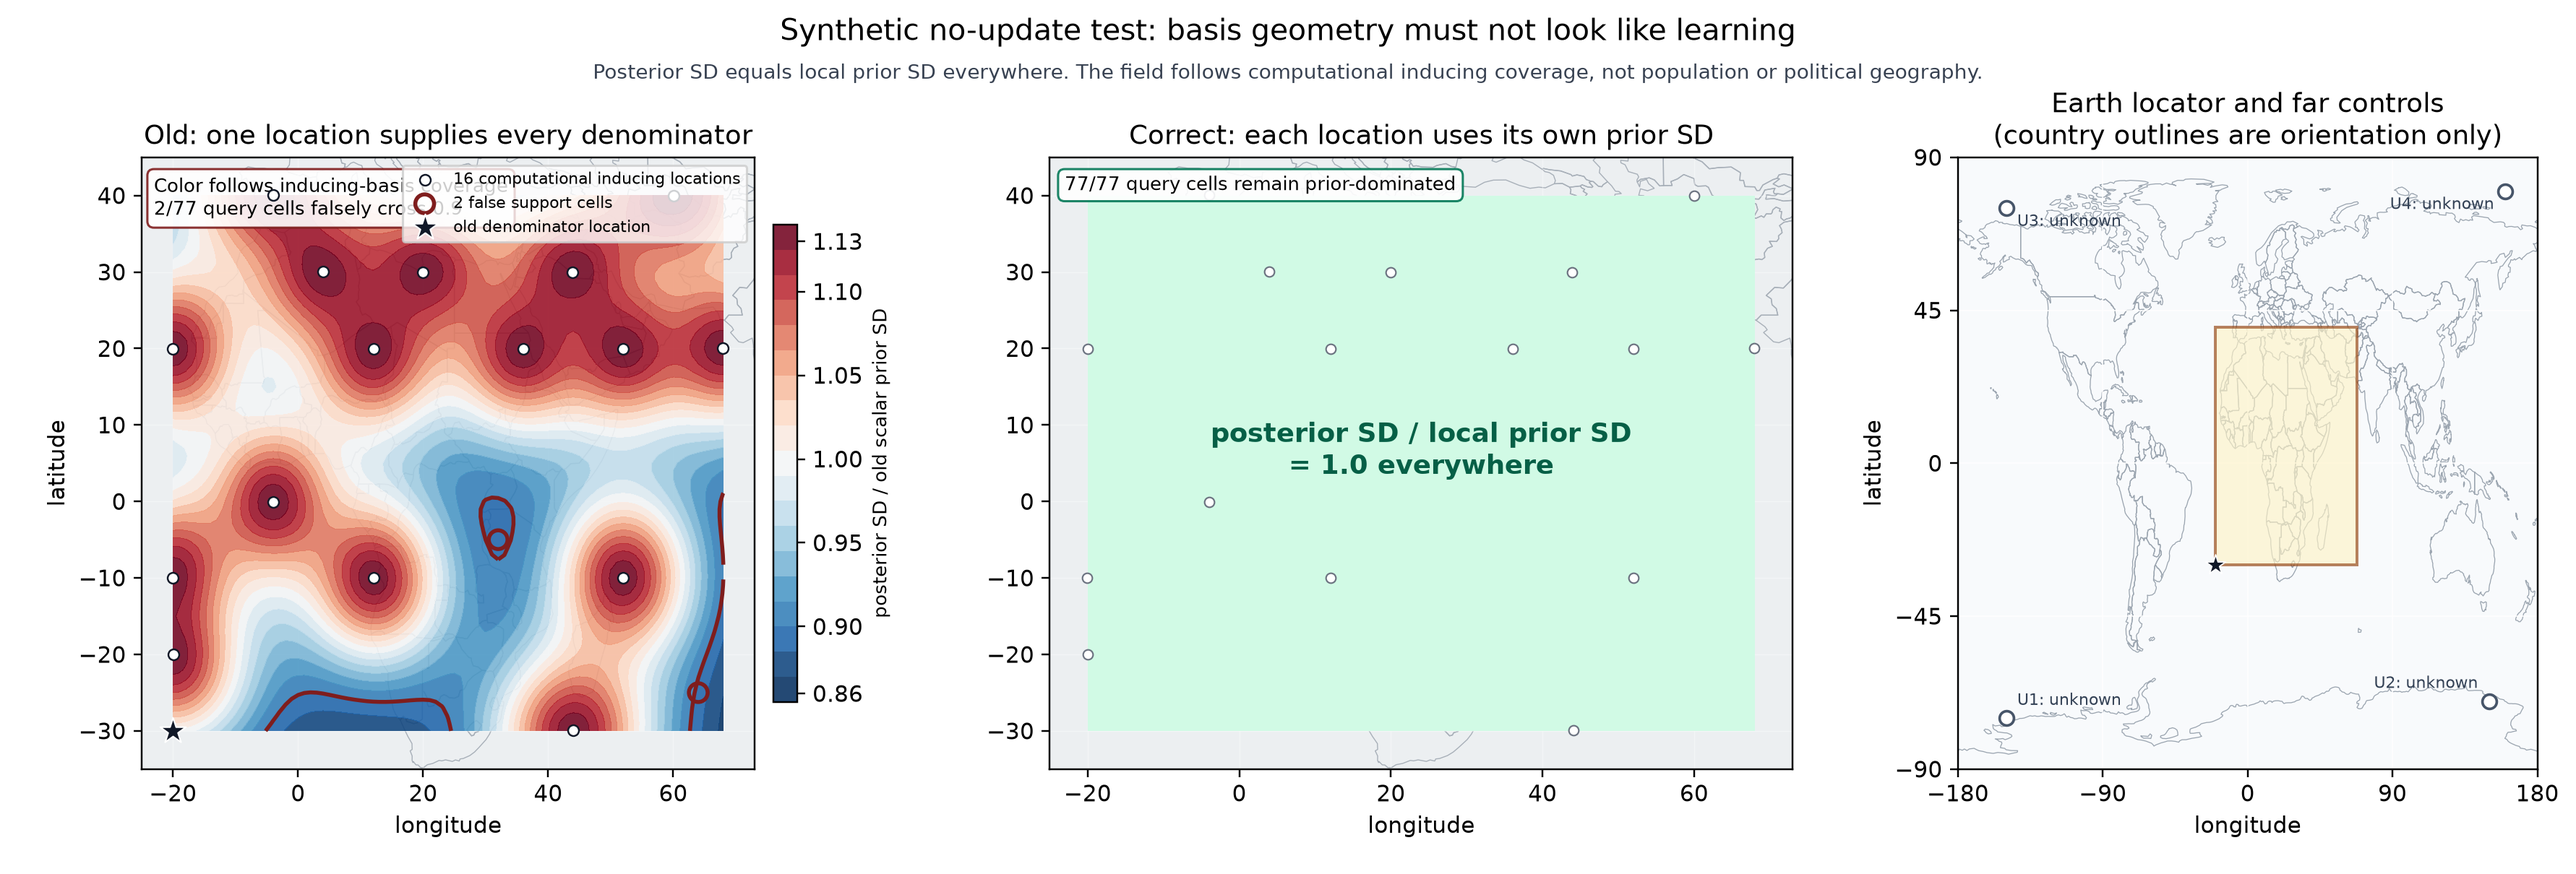
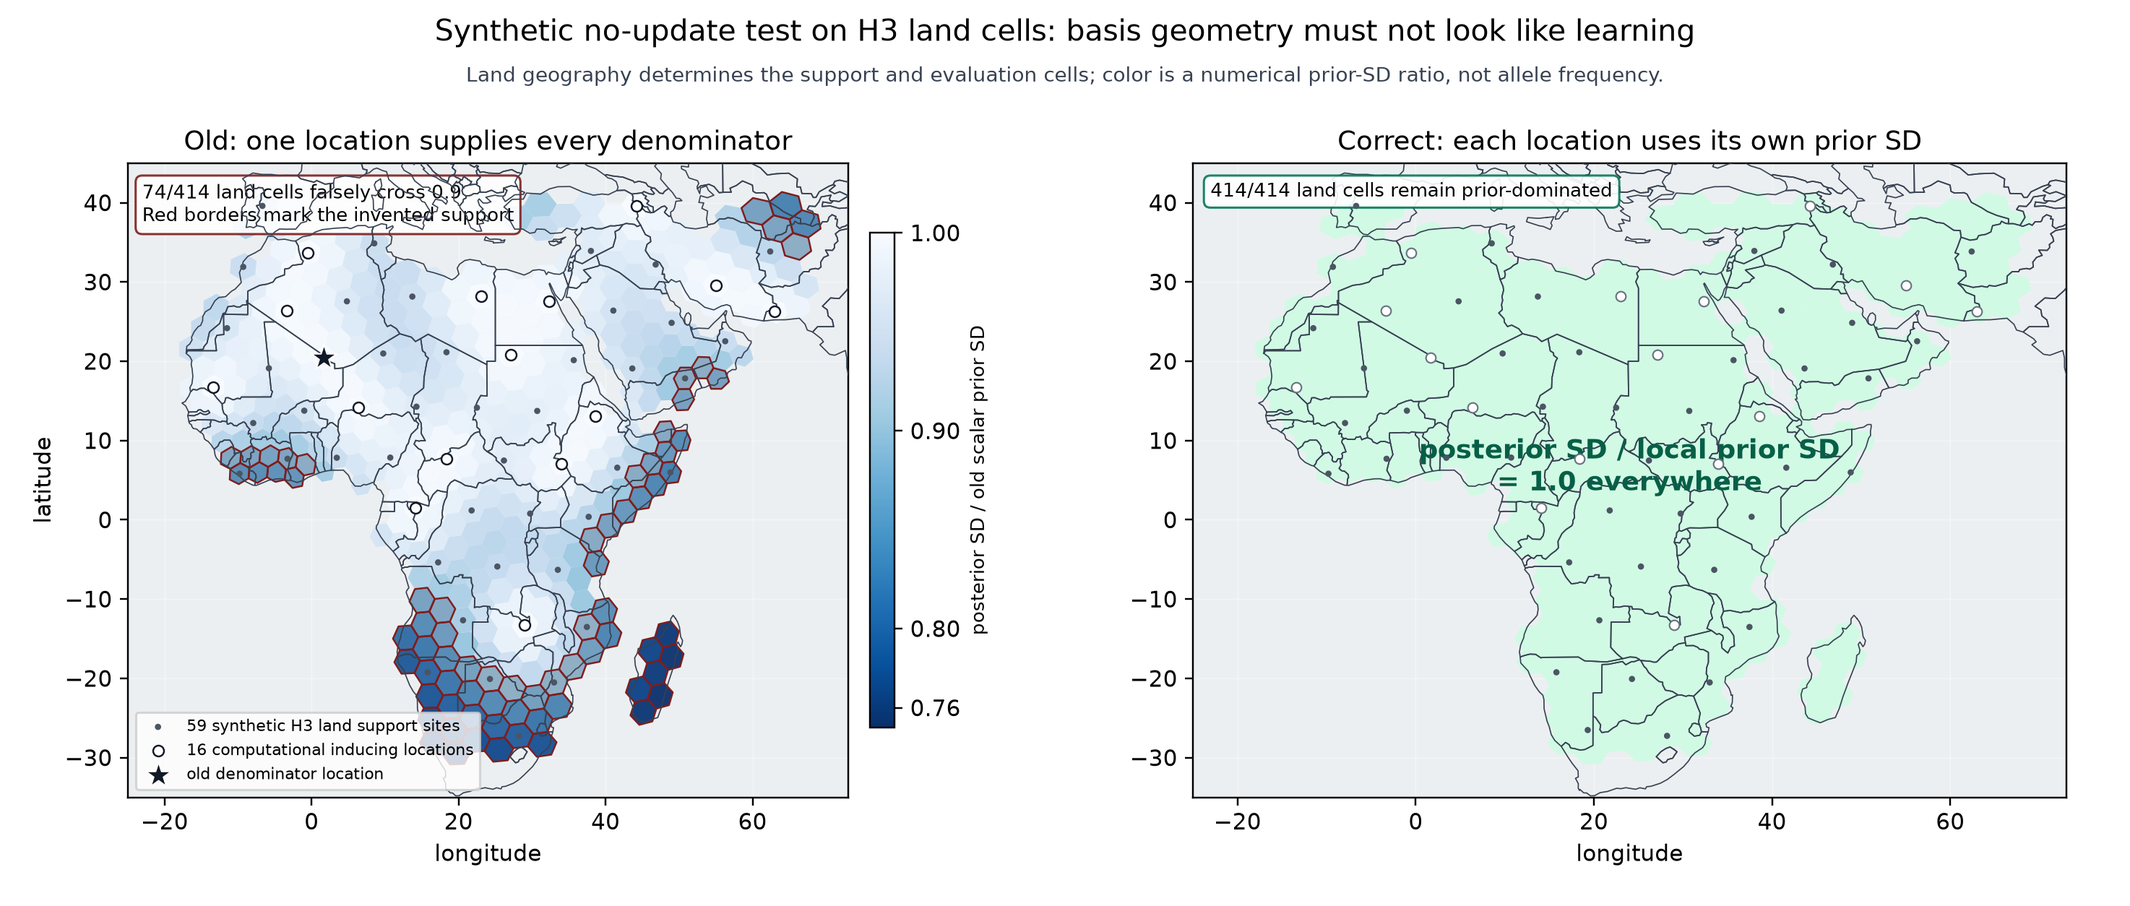
fix: tie prior diagnostic to land geometry (closes #266)

diff --git a/scripts/plot_prior_normalization.py b/scripts/plot_prior_normalization.py
@@ -15,8 +15,8 @@ import matplotlib
 matplotlib.use("Agg")
 import matplotlib.pyplot as plt  # noqa: E402
 import numpy as np  # noqa: E402
-from matplotlib.colors import ListedColormap, TwoSlopeNorm  # noqa: E402
-from matplotlib.patches import Rectangle  # noqa: E402
+from matplotlib.collections import PolyCollection  # noqa: E402
+from matplotlib.colors import Normalize  # noqa: E402
 
 from genomeos.surfaces.fit import (  # noqa: E402
     EARTH_RADIUS_KM,
@@ -24,11 +24,16 @@ from genomeos.surfaces.fit import (  # noqa: E402
     h3_inducing_points,
     to_unit_sphere,
 )
-from genomeos.viz.basemap import draw_countries  # noqa: E402
+from genomeos.viz.basemap import (  # noqa: E402
+    draw_countries,
+    h3_land_cells,
+    h3_polygons,
+)
 
 SEED = 42
 LENGTHSCALE_KM = 1500.0
 SUPPORT_THRESHOLD = 0.9
+REGION = (-20.0, 68.0, -30.0, 40.0)
 
 
 def _matern52(left: np.ndarray, right: np.ndarray) -> np.ndarray:
@@ -79,44 +84,59 @@ def _from_unit_sphere(points: np.ndarray) -> tuple[np.ndarray, np.ndarray]:
     return latitude, longitude
 
 
-def compute_counterexample() -> dict[str, np.ndarray | float]:
-    """Return the fully authored fixed-geometry no-update counterexample from issue #266."""
-    anchor_lon_grid, anchor_lat_grid = np.meshgrid(
-        np.arange(-20.0, 69.0, 8.0), np.arange(-30.0, 41.0, 10.0)
+def _regional_land_cells(resolution: int) -> tuple[np.ndarray, np.ndarray, np.ndarray]:
+    """Return deterministic H3 land cells inside the authored geographic extent."""
+    import h3
+
+    cells = np.asarray(h3_land_cells(resolution))
+    centres = np.asarray([h3.cell_to_latlng(cell) for cell in cells], dtype=float)
+    west, east, south, north = REGION
+    keep = (
+        (centres[:, 0] >= south)
+        & (centres[:, 0] <= north)
+        & (centres[:, 1] >= west)
+        & (centres[:, 1] <= east)
     )
-    anchor_lat, anchor_lon = anchor_lat_grid.ravel(), anchor_lon_grid.ravel()
+    cells, centres = cells[keep], centres[keep]
+    order = np.lexsort((centres[:, 1], centres[:, 0]))
+    return cells[order], centres[order, 0], centres[order, 1]
+
+
+def compute_counterexample() -> dict[str, np.ndarray | float | int]:
+    """Return the fully authored fixed-geometry no-update counterexample from issue #266."""
+    anchor_cells, anchor_lat, anchor_lon = _regional_land_cells(1)
     inducing = h3_inducing_points(anchor_lat, anchor_lon, 16, reach_km=1500.0)
     inducing_lat, inducing_lon = _from_unit_sphere(inducing)
-    query_lon_grid, query_lat_grid = np.meshgrid(
-        np.arange(-16.0, 65.0, 8.0), np.arange(-25.0, 36.0, 10.0)
-    )
-    query_lat, query_lon = query_lat_grid.ravel(), query_lon_grid.ravel()
+    query_cells, query_lat, query_lon = _regional_land_cells(2)
     local_sd = _conditional_frequency_sd(inducing, query_lat, query_lon)
-    scalar_sd = float(_conditional_frequency_sd(inducing, anchor_lat[:1], anchor_lon[:1])[0])
-    surface_lon, surface_lat = np.meshgrid(
-        np.linspace(-20.0, 68.0, 89), np.linspace(-30.0, 40.0, 71)
+    # The old implementation used whichever observation happened to come first. Fix that
+    # otherwise arbitrary ordering to a support cell near (20 N, 2 E), which is collocated with
+    # an inducing location and therefore makes the scalar-denominator failure easy to inspect.
+    reference_index = int(np.argmin((anchor_lat - 20.0) ** 2 + (anchor_lon - 2.0) ** 2))
+    scalar_sd = float(
+        _conditional_frequency_sd(
+            inducing, anchor_lat[reference_index : reference_index + 1],
+            anchor_lon[reference_index : reference_index + 1],
+        )[0]
     )
-    surface_ratio = _conditional_frequency_sd(
-        inducing, surface_lat.ravel(), surface_lon.ravel()
-    ).reshape(surface_lat.shape) / scalar_sd
     controls = np.array([[-75.0, -150.0], [-70.0, 150.0], [75.0, -150.0], [80.0, 160.0]])
     control_distance = _haversine_to_grid(
         controls[:, 0], controls[:, 1], anchor_lat, anchor_lon
     )
     return {
+        "anchor_cells": anchor_cells,
         "anchor_lat": anchor_lat,
         "anchor_lon": anchor_lon,
         "inducing_lat": inducing_lat,
         "inducing_lon": inducing_lon,
+        "query_cells": query_cells,
         "query_lat": query_lat,
         "query_lon": query_lon,
         "local_sd": local_sd,
         "scalar_sd": scalar_sd,
         "scalar_ratio": local_sd / scalar_sd,
         "local_ratio": local_sd / local_sd,
-        "surface_lat": surface_lat,
-        "surface_lon": surface_lon,
-        "surface_ratio": surface_ratio,
+        "reference_index": reference_index,
         "controls": controls,
         "control_distance_km": control_distance,
         "control_unknown": control_distance > 2.0 * LENGTHSCALE_KM,
@@ -124,55 +144,53 @@ def compute_counterexample() -> dict[str, np.ndarray | float]:
 
 
 def render(out: Path) -> Path:
-    """Map the denominator error against its actual synthetic inducing geometry."""
+    """Map the denominator error on the land cells that determine the synthetic geometry."""
     result = compute_counterexample()
-    query_lat = result["query_lat"]
-    query_lon = result["query_lon"]
     scalar_ratio = result["scalar_ratio"]
     false_support = scalar_ratio < SUPPORT_THRESHOLD
-    fig, (old_ax, local_ax, locator_ax) = plt.subplots(
-        1, 3, figsize=(16.2, 5.5),
-        gridspec_kw={"width_ratios": (1.0, 1.0, 0.78)},
-    )
-    norm = TwoSlopeNorm(
-        vmin=float(np.min(result["surface_ratio"])),
-        vcenter=1.0,
-        vmax=float(np.max(result["surface_ratio"])),
-    )
+    polygons, kept = h3_polygons(result["query_cells"])
+    kept = np.asarray(kept)
+    fig, (old_ax, local_ax) = plt.subplots(1, 2, figsize=(13.4, 5.7))
+    norm = Normalize(vmin=0.75, vmax=1.0)
     for axis in (old_ax, local_ax):
         axis.set_facecolor("#eceff1")
-        draw_countries(axis, color="#a7afb8", linewidth=0.45)
         axis.set(xlim=(-25, 73), ylim=(-35, 45), xlabel="longitude")
         axis.grid(color="white", linewidth=0.45, alpha=0.4)
 
-    surface = old_ax.contourf(
-        result["surface_lon"], result["surface_lat"], result["surface_ratio"],
-        levels=24, cmap="RdBu_r", norm=norm, alpha=0.88, zorder=2,
+    surface = PolyCollection(
+        polygons, array=scalar_ratio[kept], cmap="Blues_r", norm=norm,
+        edgecolors="none", zorder=2,
     )
-    old_ax.contour(
-        result["surface_lon"], result["surface_lat"], result["surface_ratio"],
-        levels=[SUPPORT_THRESHOLD], colors="#7f1d1d", linewidths=1.8, zorder=3,
+    old_ax.add_collection(surface)
+    false_polygons = [polygon for polygon, index in zip(polygons, kept, strict=True)
+                      if false_support[index]]
+    old_ax.add_collection(
+        PolyCollection(
+            false_polygons, facecolors="#7f1d1d20", edgecolors="#7f1d1d",
+            linewidths=0.8, zorder=3,
+        )
+    )
+    draw_countries(old_ax, color="#374151", linewidth=0.55, zorder=4)
+    old_ax.scatter(
+        result["anchor_lon"], result["anchor_lat"], s=8, facecolor="#4b5563",
+        edgecolor="none", zorder=5, label="59 synthetic H3 land support sites",
     )
     old_ax.scatter(
         result["inducing_lon"], result["inducing_lat"], s=24,
-        facecolor="white", edgecolor="#111827", linewidth=0.8, zorder=4,
+        facecolor="white", edgecolor="#111827", linewidth=0.8, zorder=6,
         label="16 computational inducing locations",
     )
-    old_ax.scatter(
-        query_lon[false_support], query_lat[false_support], s=72, facecolor="none",
-        edgecolor="#7f1d1d", linewidth=1.8, zorder=4,
-        label="2 false support cells",
-    )
-    reference_lat = float(result["anchor_lat"][0])
-    reference_lon = float(result["anchor_lon"][0])
+    reference_index = int(result["reference_index"])
+    reference_lat = float(result["anchor_lat"][reference_index])
+    reference_lon = float(result["anchor_lon"][reference_index])
     old_ax.scatter(
         [reference_lon], [reference_lat], marker="*", s=150, facecolor="#111827",
-        edgecolor="white", linewidth=0.7, zorder=5, label="old denominator location",
+        edgecolor="white", linewidth=0.7, zorder=7, label="old denominator location",
     )
     old_ax.text(
         0.02, 0.97,
-        "Color follows inducing-basis coverage\n"
-        f"{int(false_support.sum())}/{len(query_lat)} query cells falsely cross 0.9",
+        f"{int(false_support.sum())}/{len(scalar_ratio)} land cells falsely cross 0.9\n"
+        "Red borders mark the invented support",
         transform=old_ax.transAxes, va="top", fontsize=8.5,
         bbox={"boxstyle": "round,pad=0.35", "facecolor": "white", "alpha": 0.9, "edgecolor": "#7f1d1d"},
     )
@@ -180,19 +198,22 @@ def render(out: Path) -> Path:
         ylabel="latitude",
         title="Old: one location supplies every denominator",
     )
-    old_ax.legend(loc="upper right", fontsize=7.2, frameon=True)
+    old_ax.legend(loc="lower left", fontsize=7.2, frameon=True)
     colorbar = fig.colorbar(surface, ax=old_ax, shrink=0.78, pad=0.025)
     colorbar.set_label("posterior SD / old scalar prior SD", fontsize=8.5)
-    colorbar.set_ticks([0.86, 0.9, 0.95, 1.0, 1.05, 1.1, 1.13])
+    colorbar.set_ticks([0.76, 0.8, 0.9, 1.0])
 
-    local_ax.contourf(
-        result["surface_lon"], result["surface_lat"],
-        np.ones_like(result["surface_ratio"]), levels=[0.5, 1.5],
-        cmap=ListedColormap(["#d1fae5"]), zorder=2,
+    local_ax.add_collection(
+        PolyCollection(polygons, facecolors="#d1fae5", edgecolors="none", zorder=2)
+    )
+    draw_countries(local_ax, color="#374151", linewidth=0.55, zorder=3)
+    local_ax.scatter(
+        result["anchor_lon"], result["anchor_lat"], s=8, facecolor="#4b5563",
+        edgecolor="none", zorder=4,
     )
     local_ax.scatter(
         result["inducing_lon"], result["inducing_lat"], s=20,
-        facecolor="white", edgecolor="#6b7280", linewidth=0.7, zorder=3,
+        facecolor="white", edgecolor="#6b7280", linewidth=0.7, zorder=5,
     )
     local_ax.text(
         0.5, 0.52, "posterior SD / local prior SD\n= 1.0 everywhere",
@@ -200,53 +221,23 @@ def render(out: Path) -> Path:
         color="#065f46", weight="bold",
     )
     local_ax.text(
-        0.02, 0.97, "77/77 query cells remain prior-dominated",
+        0.02, 0.97, f"{len(scalar_ratio)}/{len(scalar_ratio)} land cells remain prior-dominated",
         transform=local_ax.transAxes, va="top", fontsize=8.5,
         bbox={"boxstyle": "round,pad=0.35", "facecolor": "white", "alpha": 0.9,
               "edgecolor": "#047857"},
     )
     local_ax.set(title="Correct: each location uses its own prior SD")
-
-    locator_ax.set_facecolor("#f8fafc")
-    draw_countries(locator_ax, color="#9aa4af", linewidth=0.42)
-    locator_ax.add_patch(
-        Rectangle((-20, -30), 88, 70, facecolor="#fef3c7", edgecolor="#92400e",
-                  linewidth=1.3, alpha=0.65, zorder=2)
-    )
-    locator_ax.scatter(
-        result["controls"][:, 1], result["controls"][:, 0], s=42,
-        facecolor="white", edgecolor="#475569", linewidth=1.2, zorder=3,
-    )
-    for index, (latitude, longitude) in enumerate(result["controls"], start=1):
-        horizontal = "right" if longitude > 0 else "left"
-        x_offset = -5 if longitude > 0 else 5
-        y_offset = -8 if latitude > 0 else 6
-        locator_ax.annotate(
-            f"U{index}: unknown", (longitude, latitude), xytext=(x_offset, y_offset),
-            textcoords="offset points", ha=horizontal, fontsize=7.2, color="#334155",
-        )
-    locator_ax.scatter(
-        [reference_lon], [reference_lat], marker="*", s=90,
-        facecolor="#111827", edgecolor="white", linewidth=0.6, zorder=4,
-    )
-    locator_ax.set(
-        xlim=(-180, 180), ylim=(-90, 90), xlabel="longitude", ylabel="latitude",
-        title="Earth locator and far controls\n(country outlines are orientation only)",
-    )
-    locator_ax.set_xticks([-180, -90, 0, 90, 180])
-    locator_ax.set_yticks([-90, -45, 0, 45, 90])
-    locator_ax.grid(color="white", linewidth=0.5)
     fig.suptitle(
-        "Synthetic no-update test: basis geometry must not look like learning",
+        "Synthetic no-update test on H3 land cells: basis geometry must not look like learning",
         fontsize=13.5,
     )
     fig.text(
         0.5, 0.91,
-        "Posterior SD equals local prior SD everywhere. The field follows computational "
-        "inducing coverage, not population or political geography.",
+        "Land geography determines the support and evaluation cells; color is a numerical "
+        "prior-SD ratio, not allele frequency.",
         ha="center", fontsize=9.2, color="#374151",
     )
-    fig.subplots_adjust(left=0.055, right=0.985, bottom=0.12, top=0.82, wspace=0.24)
+    fig.subplots_adjust(left=0.06, right=0.97, bottom=0.12, top=0.82, wspace=0.22)
     out = Path(out)
     out.parent.mkdir(parents=True, exist_ok=True)
     fig.savefig(out, dpi=220)

diff --git a/tests/test_plot_prior_normalization.py b/tests/test_plot_prior_normalization.py
@@ -9,14 +9,14 @@ from scripts.plot_prior_normalization import compute_counterexample, render
 
 def test_conditional_counterexample_matches_the_authored_numeric_control():
     result = compute_counterexample()
-    target = (result["query_lat"] == -25) & (result["query_lon"] == 64)
-    assert result["scalar_ratio"][target].item() == pytest.approx(0.8953380210217113, abs=1e-14)
-    assert result["local_ratio"][target].item() == 1.0
-    assert len(result["query_lat"]) == 77
+    target = int(result["scalar_ratio"].argmin())
+    assert result["scalar_ratio"][target] == pytest.approx(0.7641113898635092, abs=1e-14)
+    assert result["local_ratio"][target] == 1.0
+    assert len(result["anchor_lat"]) == 59
+    assert len(result["query_lat"]) == 414
     assert len(result["inducing_lat"]) == 16
     assert len(result["inducing_lon"]) == 16
-    assert int((result["scalar_ratio"] < 0.9).sum()) == 2
-    assert result["surface_ratio"].shape == (71, 89)
+    assert int((result["scalar_ratio"] < 0.9).sum()) == 74
     assert result["control_unknown"].tolist() == [True, True, True, True]
 
 

diff --git a/docs/research/pointwise-prior-contraction-2026-09-11.md b/docs/research/pointwise-prior-contraction-2026-09-11.md
@@ -11,22 +11,23 @@ has not changed.
 ![Synthetic pointwise-prior normalization counterexample](https://raw.githubusercontent.com/bschilder/genomeOS/main/docs/figures/prior_normalization.png)
 
 The figure is an authored synthetic counterexample, not population evidence or a fitted genetic
-surface. A 96-point geometry grid determines 16 H3 inducing points; it does not represent measured
-people. The Matérn-5/2 lengthscale is 1,500 km, amplitude is 1, production jitter is applied, and
-the intercept is `Normal(-3.5, 1.5)`. An independent covariance solve and 256-point Gauss-Hermite
-quadrature calculate the approximate prior frequency SD at 77 midpoint queries. The colored field
-follows the coverage of the 16 computational inducing locations; it is not expected to follow
-coastlines, countries or population structure. Country outlines locate the authored coordinates
-only and do not enter the calculation. The hypothetical posterior SD is set equal to each query's
-local prior SD. At `(-25, 64)`, the unchanged local
-distribution has ratio 1.0 with the matched denominator but about 0.895338 with the old scalar
-reference, which crosses the 0.9 support threshold. Four distant controls remain `unknown` by the
-unchanged distance rule. The paired maps show the resulting normalization error under the old
-single-location denominator and the uniform ratio of 1.0 under the correct local denominator. The
-old panel marks the actual inducing locations that cause the spatial pattern and the two diagnostic
-query cells that cross the threshold. A world locator shows the authored domain and all four
-unknown controls. The dense maps are evaluated only over the authored geometry; grey background
-is unevaluated.
+surface. Geography now enters the calculation in a narrow, visible way: 59 resolution-1 H3 land
+cells inside the displayed extent are the synthetic support sites, and 414 resolution-2 H3 land
+cells are evaluated. Ocean cells are absent rather than covered by an artificial rectangular
+field. The support sites determine 16 H3 inducing locations; none represents measured people. The
+Matérn-5/2 lengthscale is 1,500 km, amplitude is 1, production jitter is applied, and the intercept
+is `Normal(-3.5, 1.5)`. An independent covariance solve and 256-point Gauss-Hermite quadrature
+calculate the approximate prior frequency SD at every evaluation cell. Color follows distance to
+the displayed computational inducing locations; it is a numerical prior-SD ratio, not allele
+frequency or population structure.
+
+The hypothetical posterior SD equals each cell's local prior SD. The old scalar denominator is
+fixed to the displayed support cell near 20° N, 2° E, representing the arbitrary observation-order
+dependence in the retired implementation. An unchanged cell reaches a ratio of about 0.764111 with
+that reference, and 74 of 414 land cells falsely cross the 0.9 support threshold. Every cell has
+ratio 1.0 with the matched local denominator. Red cell borders show exactly where the old rule
+invented support. Four distant controls remain `unknown` by the unchanged distance rule; they are
+tested but omitted from this regional figure because they do not explain the normalization error.
 
 The production interface samples the retained PyMC model's existing `freq_pred` node at requested
 coordinates. This includes the model's actual hyperpriors and HSGP or inducing geometry. The
